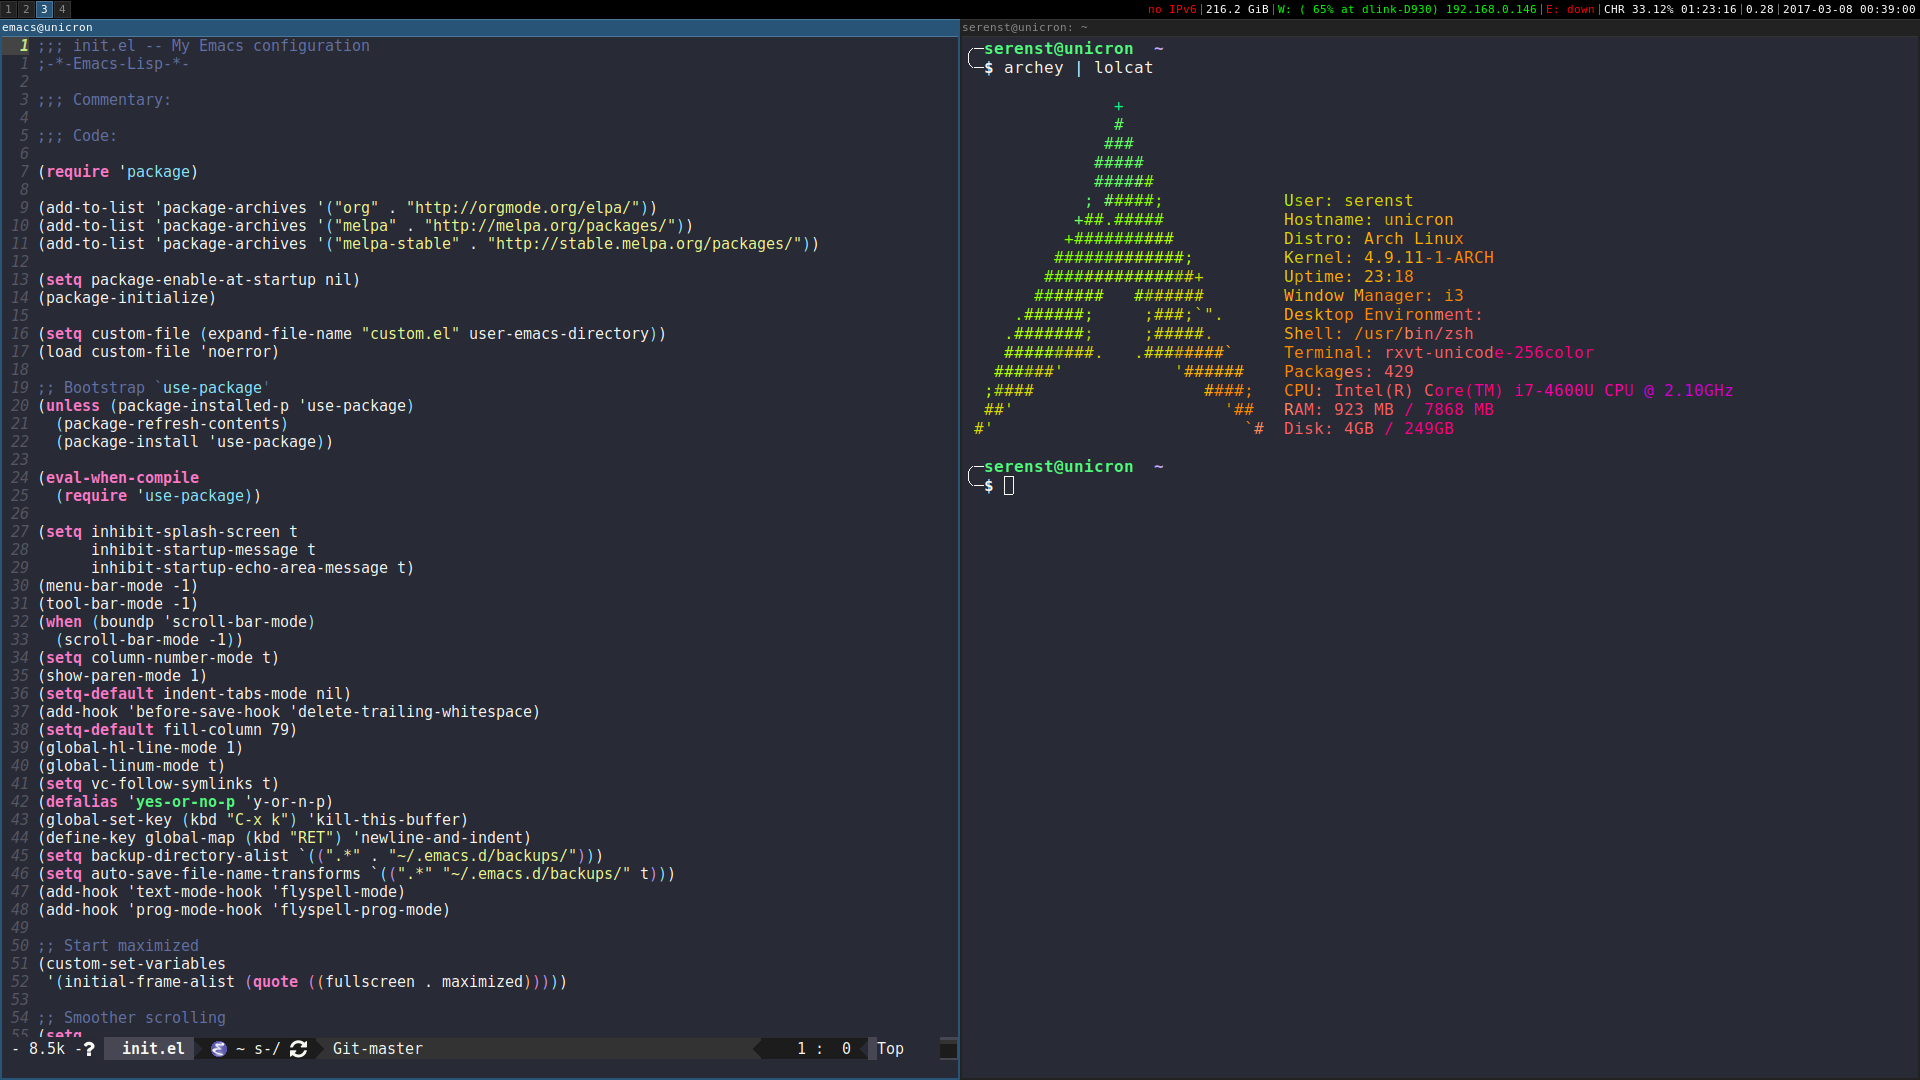
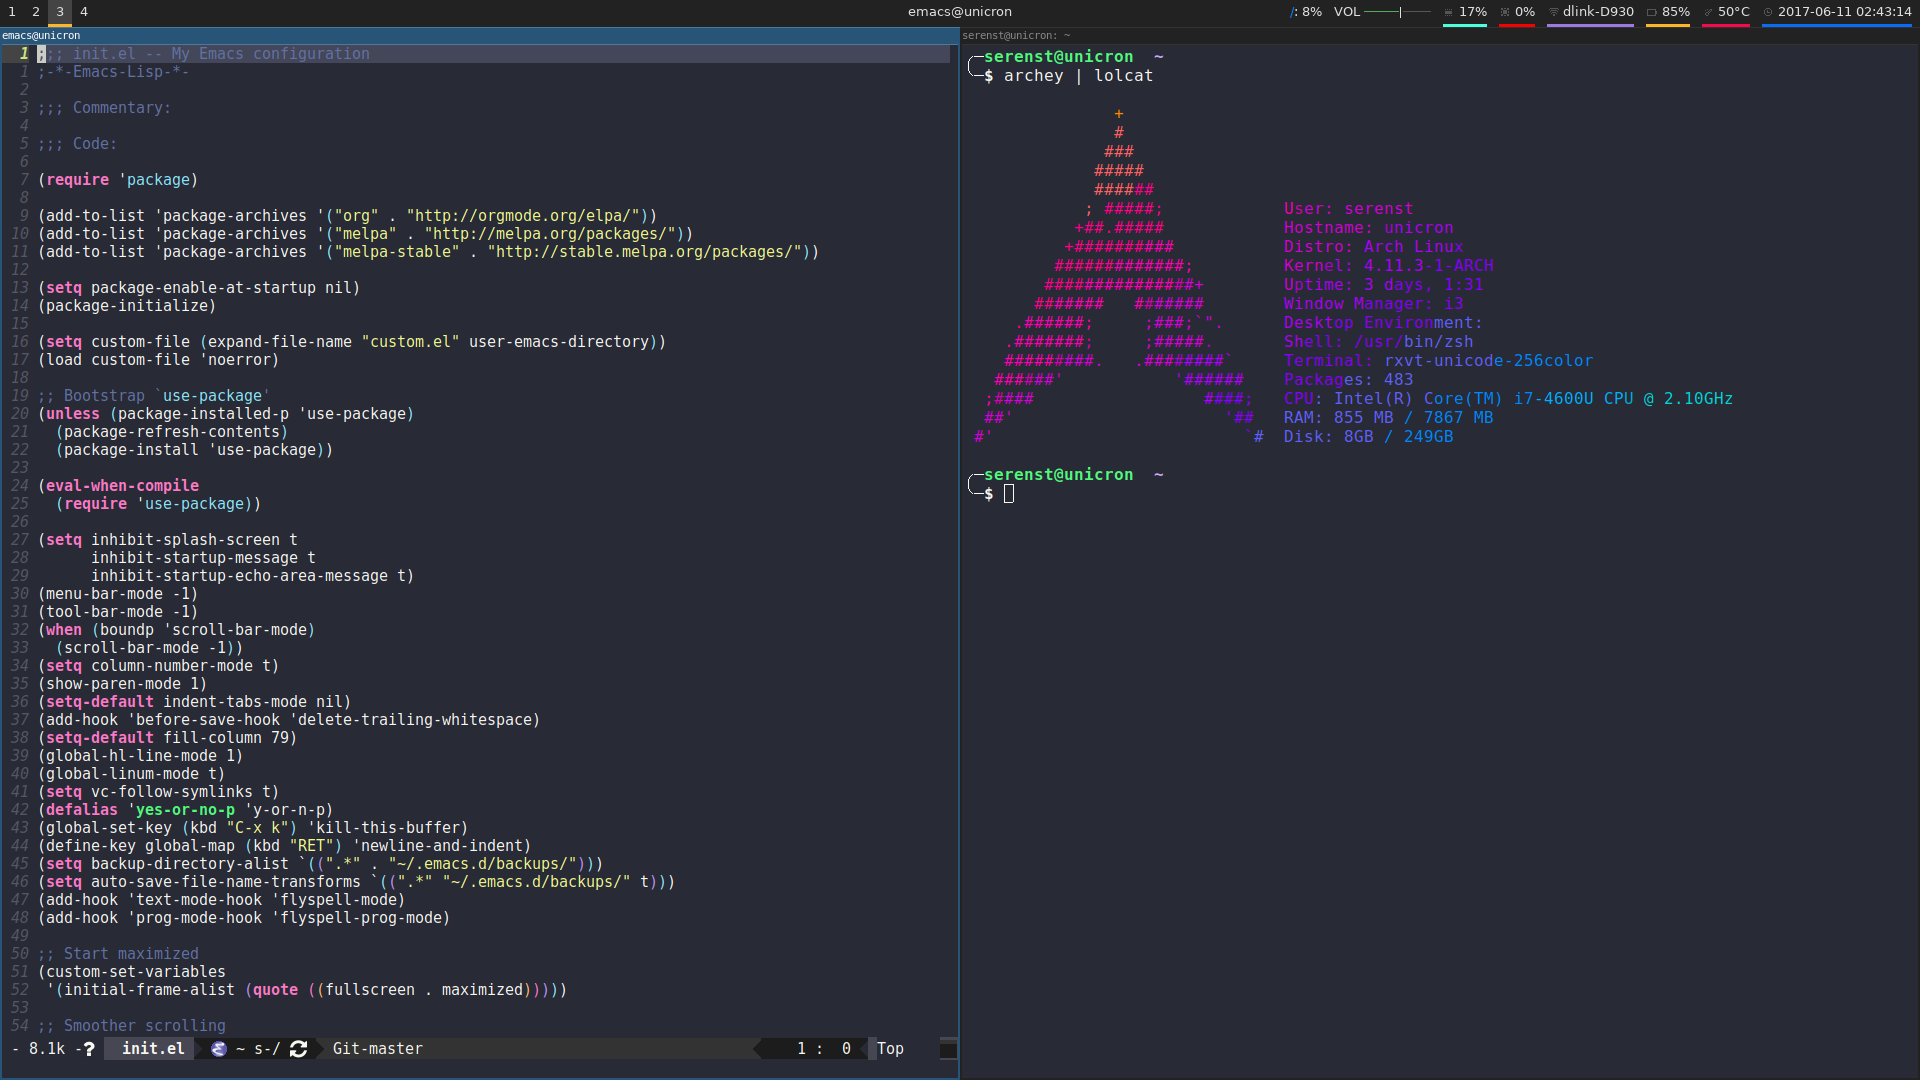
Replace i3status with polybar
Seems a bit more configurable! Also, it has animations :O.

Changed region(s): [[0.0, 0.0, 1.0, 0.9778], [0.5, 0.1222, 0.9062, 0.4278], [0.5, 0.4278, 0.5938, 0.4583]]

diff --git a/README.md b/README.md
@@ -17,5 +17,5 @@ tree is the parent of the current directory.
 Use Stow to install one or more packages:
 
 ```bash
-stow emacs i3 vim X zsh
+stow emacs i3 polybar vim X zsh
 ```

diff --git a/polybar/README.md b/polybar/README.md
@@ -1,0 +1,6 @@
+polybar
+=======
+
+```bash
+pacaur -S polybar siji-git
+```
